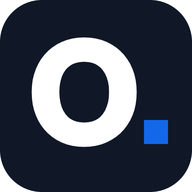
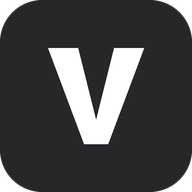
Usa identidad visual genérica para Plaza Vitarte

diff --git a/index.html b/index.html
@@ -21,22 +21,22 @@
     <title>Plaza Vitarte</title>
     <meta name="description" content="Directorio independiente de negocios, tiendas y servicios de Plaza Vitarte. Explora por categoría y piso, revisa promociones y contacta directo con cada negocio.">
     <link rel="manifest" href="manifest.webmanifest">
-    <link rel="icon" type="image/svg+xml" href="assets/img/favicon.svg?v=20235d7c4aaf">
-    <link rel="apple-touch-icon" href="assets/img/icon-192.png?v=0b8472ce6e5f">
+    <link rel="icon" type="image/svg+xml" href="assets/img/favicon.svg?v=b014d693b381">
+    <link rel="apple-touch-icon" href="assets/img/icon-192.png?v=0dcf876e8cda">
     <meta property="og:type" content="website">
     <meta property="og:site_name" content="Plaza Vitarte">
     <meta property="og:title" content="Plaza Vitarte">
     <meta property="og:description" content="Directorio independiente de negocios y promociones de Plaza Vitarte. Explora por categoría y piso.">
     <meta property="og:url" content="https://plazavitarte.oficial.pe/">
-    <meta property="og:image" content="https://plazavitarte.oficial.pe/og-plazavitarte.png">
+    <meta property="og:image" content="https://plazavitarte.oficial.pe/og-plazavitarte-demo.png">
     <meta property="og:image:type" content="image/png">
-    <meta property="og:image:alt" content="Vista previa de Plaza Vitarte, un directorio independiente de negocios locales">
+    <meta property="og:image:alt" content="Plaza Vitarte, directorio de negocios">
     <meta property="og:image:width" content="1200">
     <meta property="og:image:height" content="630">
     <meta name="twitter:card" content="summary_large_image">
     <meta name="twitter:title" content="Plaza Vitarte">
     <meta name="twitter:description" content="Directorio independiente de negocios y promociones de Plaza Vitarte. Explora por categoría y piso.">
-    <meta name="twitter:image" content="https://plazavitarte.oficial.pe/og-plazavitarte.png">
+    <meta name="twitter:image" content="https://plazavitarte.oficial.pe/og-plazavitarte-demo.png">
     <link rel="preconnect" href="https://fonts.googleapis.com">
     <link rel="preconnect" href="https://fonts.gstatic.com" crossorigin>
     <link rel="stylesheet" href="assets/css/tailwind.css?v=1665b044988e">
